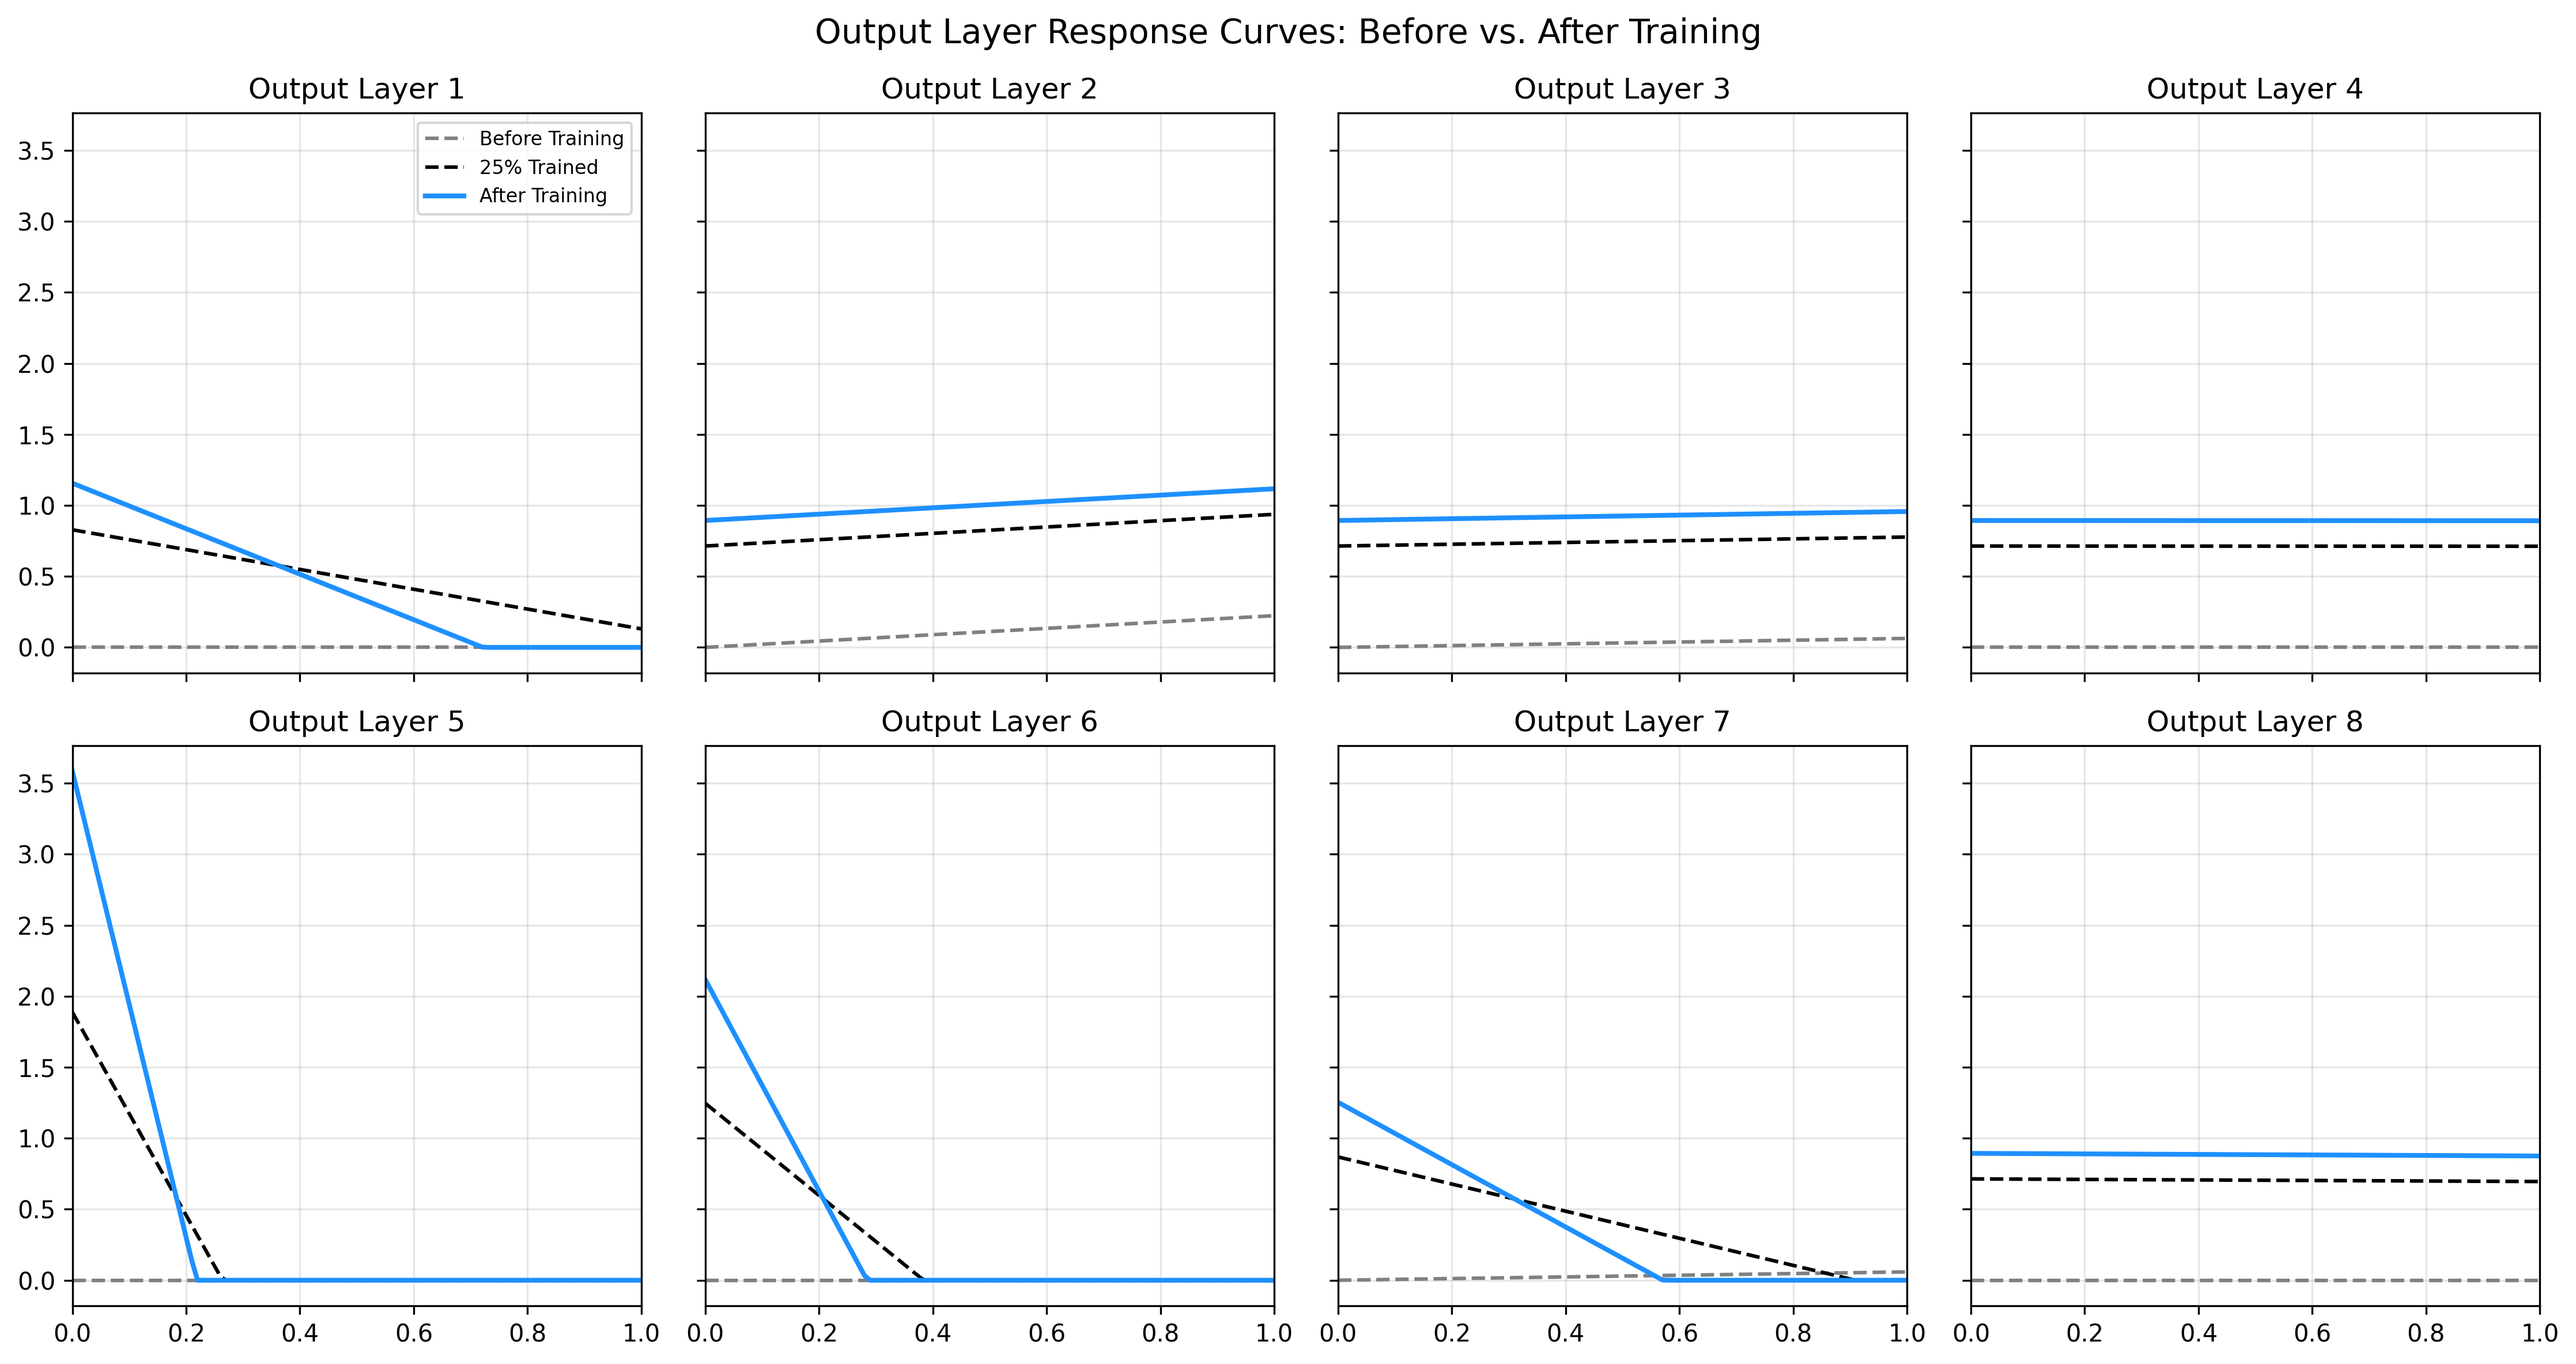
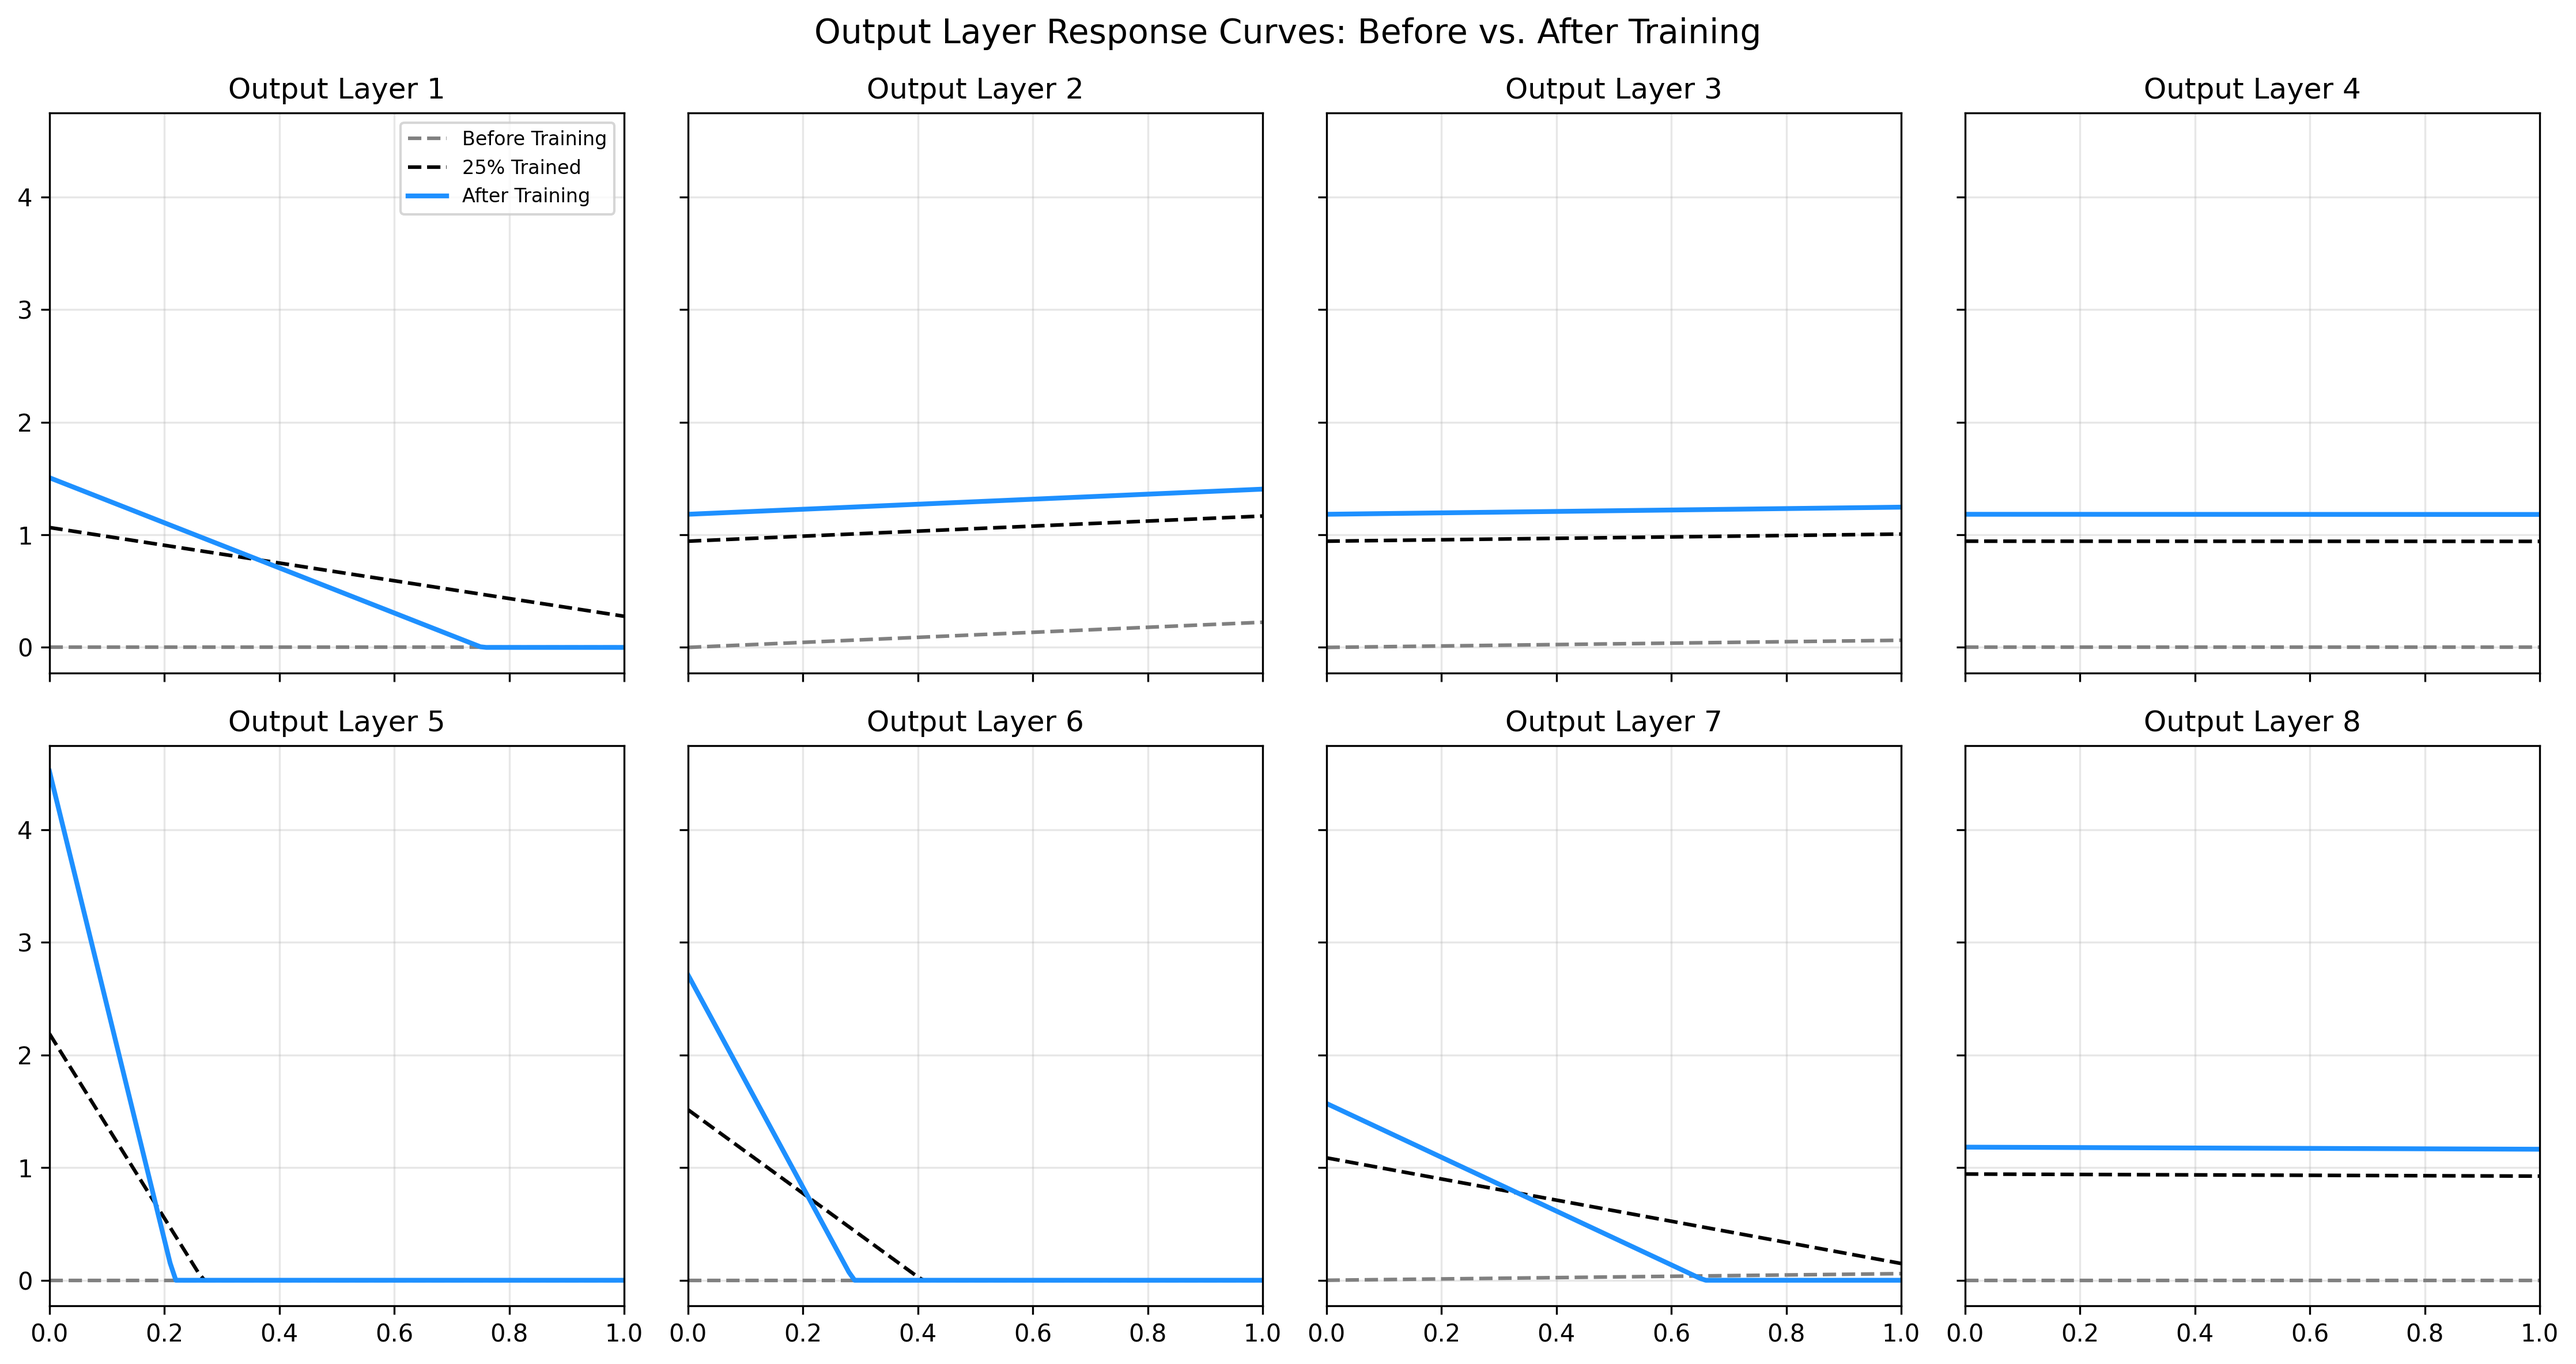
add prediction

diff --git a/README.md b/README.md
@@ -81,7 +81,7 @@ When plotting the individual hidden neurons scaled by their respective output we
 distinct geometric pattern emerges: many of the surviving curves appear as falling curves, with 
 some possibly exhibiting exceptionally sharp slopes.
 
-![Neural Network Prediction Boundary](assets/output_boundary.png)
+![Neural Network Output Boundary](assets/output_boundary.png)
 
 ### Why Falling Curves?
 Output Weight Inversion ($W_2$ Multiplication): While the underlying hidden neurons naturally 
@@ -102,3 +102,31 @@ sharp falling slopes to slam the prediction back down once the target character 
 Cancellation: By balancing positive and negative scaled outputs across the hidden layer, the 
 network constructs a localized "bump" or window function capable of isolating the target 
 character amidst a sea of non-target inputs.
+
+## Observations: Final Prediction
+When evaluating the network's final output probability curve across the input domain, a striking 
+asymmetry appears: the network successfully learns a sharp "right wall" but completely misses 
+the "left wall."
+
+![Neural Network Prediction Boundary](assets/prediction_boundary.png)
+
+### Why Does the Plateau Exist?
+Unbounded Left Boundary: Because surviving hidden neurons initialize with positive biases, their 
+outputs remain active even at the lowest input values ($x = 0.0$). Without a counterbalancing 
+rising ramp to cut off inputs coming from the left, the net activation stays high for all values 
+preceding the target.
+
+Sigmoid Plateau: The combined pre-activation sum maps through the final sigmoid layer into a high 
+constant probability (around $0.83$) that stretches flatly from $0.0$ up to roughly $0.16$ before 
+the downward slope initiates.
+
+### Key Insights
+False Positives for Preceding Characters: The flat plateau means any character whose numerical 
+value falls below the drop-off point-effectively treating characters like a through d as the 
+target 'e'-is incorrectly predicted as a positive match. The network successfully learned where 
+the target ends, but treats everything before it as valid.
+
+Half-Space vs. Interval Classifiers: Gradient descent settled for a half-space boundary (blocking 
+the right side) because it minimized overall loss faster than constructing a fully enclosed 
+interval. True character isolation requires coordinated opposition between rising and falling 
+ramps to pinch the target from both sides.
